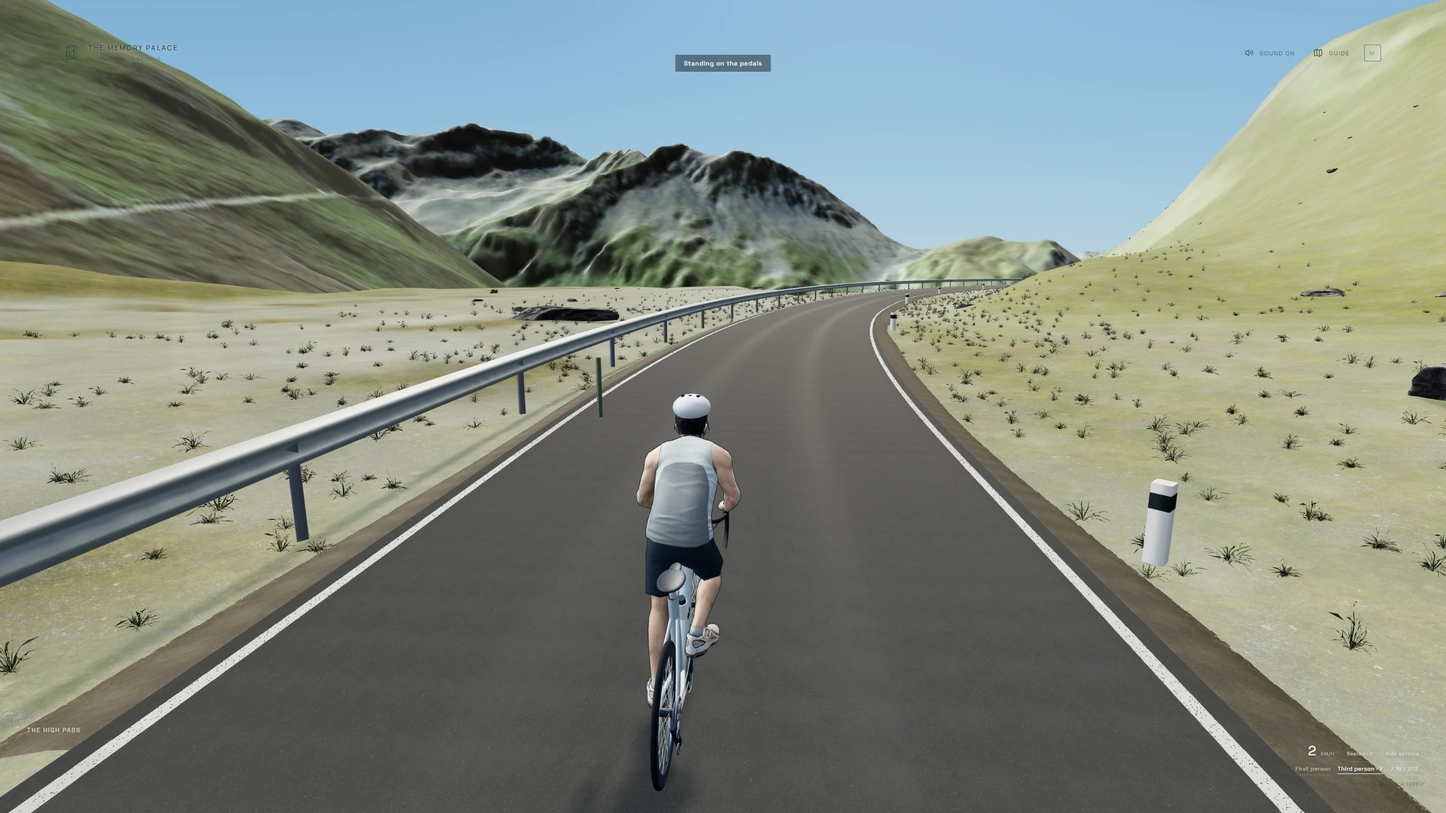
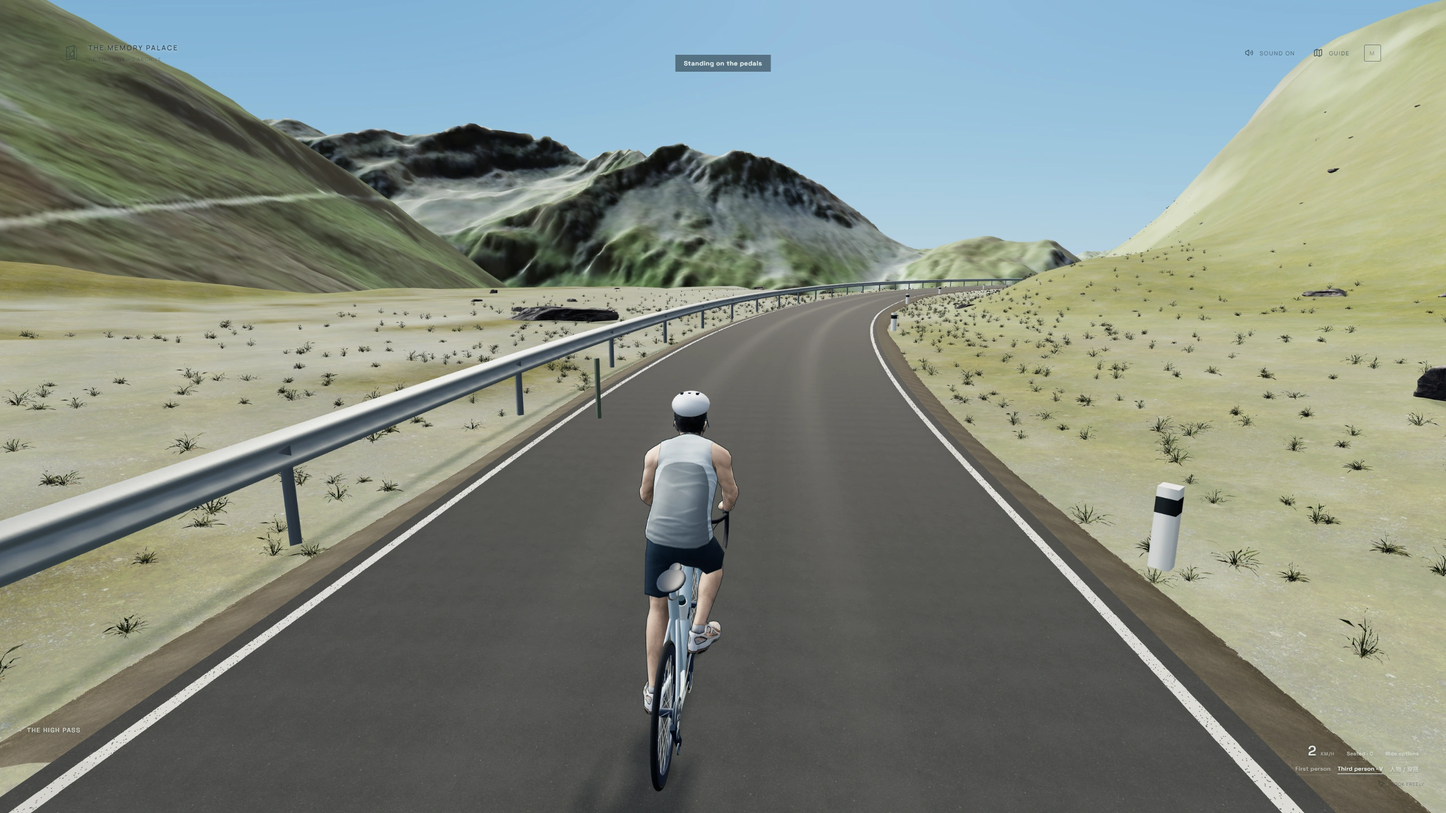
docs: retain final walking and public regression evidence

diff --git a/docs/sports-detail/README.md b/docs/sports-detail/README.md
@@ -28,6 +28,7 @@
 - [clarity.ts](../../src/worlds/presence/clarity.ts)、[math.ts](../../src/worlds/presence/math.ts)：1080p medium 的篮球 / 森林从 DPR1 提升至 1.25，高山保留已接受的 DPR1.5；1440p / 4K 有像素预算。缩短、降低第三人称观看距离，骑行轻微越肩；不改逻辑眼位、碰撞或返回姿态。
 - [riderPose.ts](../../src/worlds/presence/riderPose.ts)、[RoadBike.tsx](../../src/worlds/road/RoadBike.tsx)、[Experience.tsx](../../src/worlds/road/Experience.tsx)：保留蓝色直把车与公路车。站姿抬髋并移至曲柄上方，同一实际踏频驱动车 / 人的小幅摇车、脚踝和车轮；停止后不伪造节奏。补交叉辐条、气嘴、车把转向、真实鞋底接触。完整踏圈发现左腿目标超出真实腿长，骨盆基准下降 1.5 cm 修正，没有拉长四肢。
 - [balance.ts](../../src/worlds/road/balance.ts)、[physics.ts](../../src/worlds/road/physics.ts)：以速度² × 曲率 / 重力计算压弯，保留原动力 / 路线。舒适模式稳定相机，车和人仍侧倾。刹停时踏频真正归零，Cinema 保留坐 / 站状态与曲柄相位；现有存储键和数据库不变。
+- [walkingSurface.ts](../../src/worlds/road/walkingSurface.ts)：步行采用实际铺装高度；路基低于沥青 12–16 cm 的设计继续保留，离开道路仍使用原地形。森林离散路线投影至相邻线段，避免鞋底陷入路面。挂载骑行的路线和动力没有改变。
 
 实际观看了用户本机 43.7 秒直把蓝车视频的关键帧和所给 [街球视频](https://www.bilibili.com/video/BV1P8tH6gEMM/) 约 1:01–1:08 的局部片段。参考了 [2K25 官方 ProPLAY 说明](https://nba.2k.com/2k25/pt-BR/courtside-report/gameplay/) 中用真实动作与连续过渡组织动画的原则；未把 2K25 说明当成已验证的 2K27 内部实现，未复制游戏动作、模型、Logo 或视频素材。
 
@@ -49,10 +50,10 @@
 
 ## 测试与全程骑行
 
-- `npm test -- --maxWorkers=1 --minWorkers=1`：40 文件 / 224 测试通过；最终源代码类型检查、lint 及 `build:public` 通过。
+- `npm test -- --maxWorkers=1 --minWorkers=1`：2026-10-13 最终 41 文件 / 226 测试通过；源代码类型检查、lint 及 `build:public` 通过。新增两图实际道路顶点与路侧地形测试，原测试保留。
 - 原生 1920×1080 与 2560×1440：各 6 项 / 21 帧，六套穿搭、弹窗暂停、5 / Numpad5、物理投篮 / 上篮 / 扣篮和两图骑行。
 - 最新动作 / 接触：8 项 / 14 帧，两个 Enter、Space 不出手、Shift 不加速、换手、坐 / 站姿接触、压弯、刹车、舒适镜头、Cinema 曲柄相位误差 < 1e-8、下车 / 返回。
-- 最新公开生产包：两种桌面尺寸共 8 条原生流程，无开发状态入口；六套穿搭刷新恢复，C 坐 / 站、V、照片 / ESC 和返回通过。
+- 最新公开生产包：2026-10-13 在 `8cda046` 两种桌面尺寸重新完成共 8 条原生流程，无开发状态入口；六套穿搭刷新恢复，C 坐 / 站、V、照片 / ESC 和返回通过。
 - 原馆 12 项回归通过：v1 IndexedDB、所有主要房间 / WASD、真实收藏显影、目标房间批量导入 / 刷新、精确 Cinema 返回、单个网页预览、收藏、五段回廊、边界、实际音频 / FFT / 暂停、房间配乐恢复、非 3D 入口。
 - 两条完整路线见下文和 [森林报告](results/journey-forest.json) / [高山报告](results/journey-alpine.json)；实际查看静态对照、动作帧、站姿 / 压弯 / 车架及公开 1440p 图。
 - 本机照片参考人物另外完成 6 项 / 21 帧原生操作，实际查看头部、穿搭和骑姿；私人截图、录像与头像不公开。
@@ -62,6 +63,8 @@
 新完整骑行检查比短采样多发现一个踏圈接触问题，已修正。森林约 3.53 km，实际 389.741 秒结束并返回，左鞋底采样峰值 1.393 cm；高山 10,156.693 m，实际 697.028 秒结束并返回，鞋底采样峰值 1.249 cm，右腕峰值 2.482 cm，均保持原 2.5 cm 检查标准。两程交替坐 / 站，实测读取原路线、档位、踏频与有界分块，没有注入距离、速度或相机。高山最初被错误的共用 600 秒验收窗口中止，随后按实际长度改正预算并加入 45 秒无进展检查，从起点完整重跑。两程证据分开保存，不把中止的一程标为通过。
 
 接触数值来自腕骨与定义把位、鞋底锚点的距离，每秒 / 短周期采样；不是逐帧所有鞋面和手指的实体碰撞证明。完整骑行是交互与加载验收，不能充当长时间硬件帧率成绩。
+
+2026-10-13 最终预览发现步行鞋底陷入路基，重新打开验收并提交 `8cda046`。新增原生步行 / 上车 / 踩踏 / 刹停 / 下车 / 返回检查，两图共 2 条流程 / 4 帧通过；实际骨骼变形后的最低鞋底顶点与铺装差为森林约 3 mm、高山约 19 mm，保持 2.5 cm 断言，逐张查看画面。报告记录修复提交前的 `8c7a05c + dirty`，对应代码随后原样提交为 `8cda046`，不伪改测量 SHA。见 [真实鞋底检查](results/walking-surface.json)、[森林步行](images/cycling-walking.webp)、[高山下车](images/alpine-ride-dismounted.webp)。此前全程骑行和硬件采样仍按各自的真实提交保留，没有把步行复测冒充再次完整骑行或 FPS 测量。
 
 ## GTX 1650 实测
 
@@ -115,3 +118,4 @@
 | 63ccd3f | test: derive route budgets from distance and compare fixed optical views |
 | 95ceb42 | test: require equal effective quality in optical comparison |
 | f74d0ca | test: measure high quality with restored local avatar |
+| 8cda046 | fix: ground walking riders on the visible pavement |
